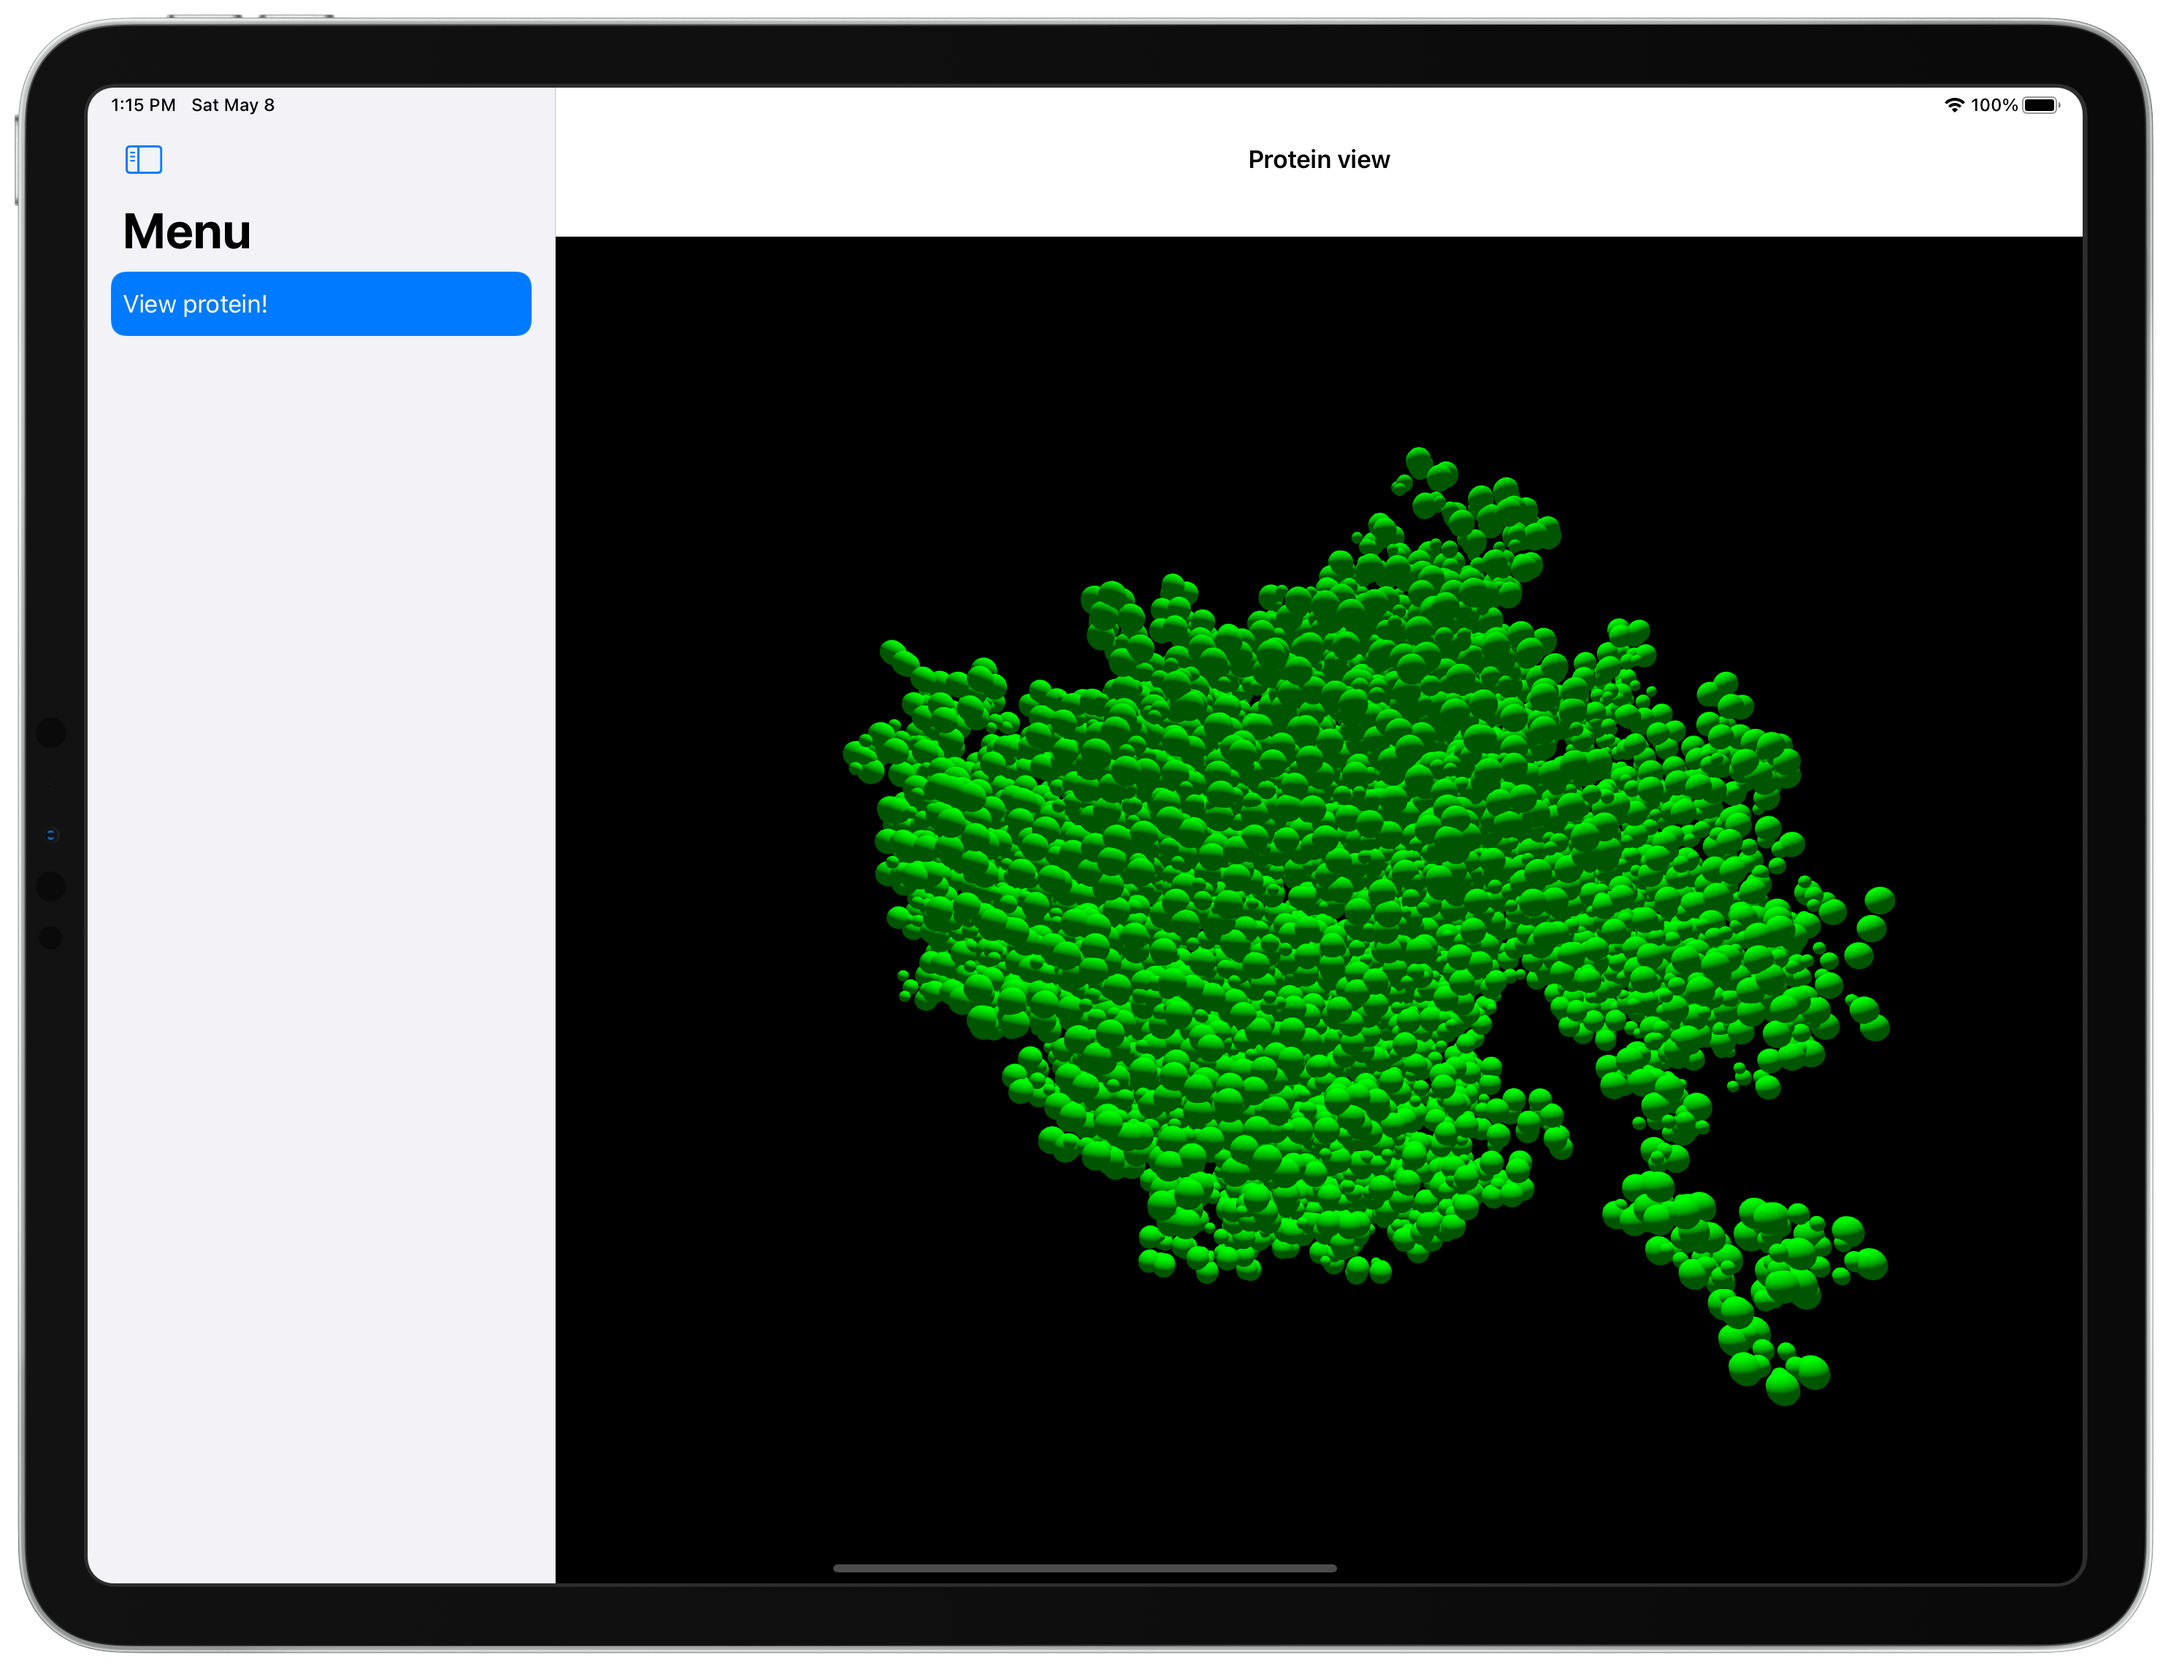
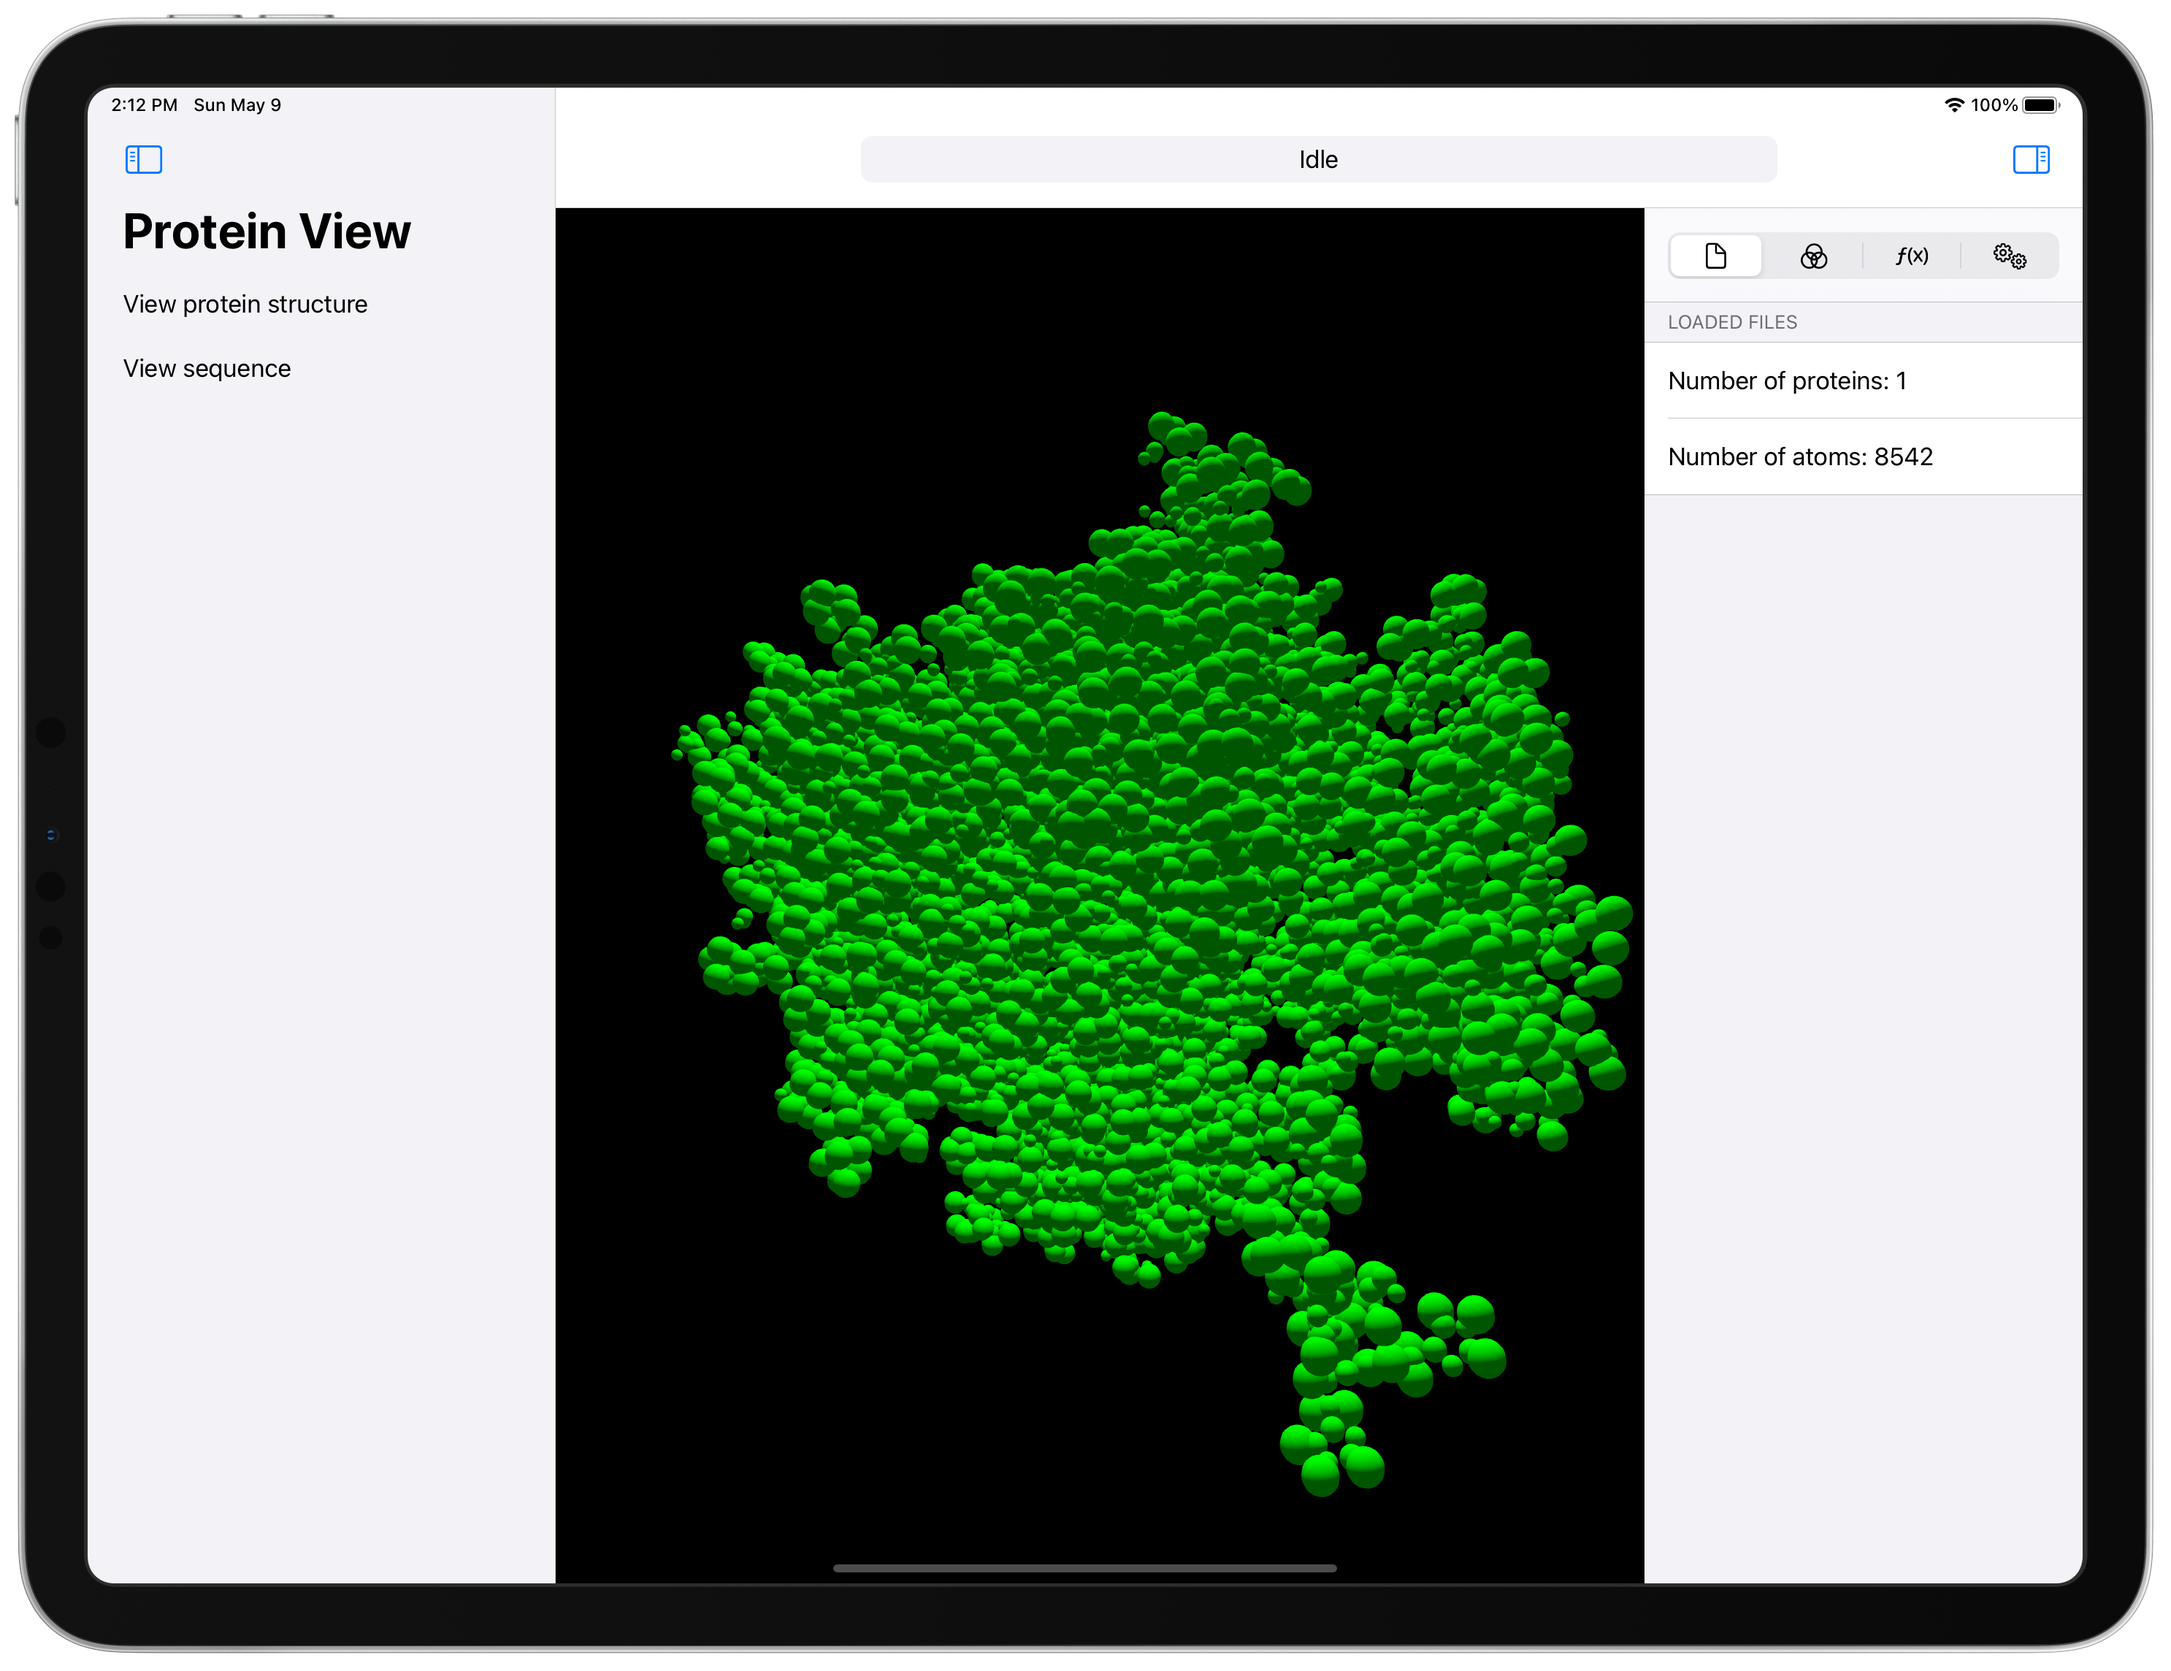
File tab added to sidebar

diff --git a/BioViewer/Views/ProteinViews/Segments/FileSegmentProtein.swift b/BioViewer/Views/ProteinViews/Segments/FileSegmentProtein.swift
@@ -1,0 +1,28 @@
+//
+//  FileSegmentProtein.swift
+//  BioViewer
+//
+//  Created by Raúl Montón Pinillos on 9/5/21.
+//
+
+import SwiftUI
+
+struct FileSegmentProtein: View {
+    var body: some View {
+            List {
+                // First section hast 64pt padding to account for the
+                // space under the segmented control.
+                Section(header: Text("Loaded files").padding(.top, 64)) {
+                    Text("Number of proteins: 1")
+                    Text("Number of atoms: 8542")
+                }
+            }
+            .listStyle(GroupedListStyle())
+    }
+}
+
+struct FileSegmentProtein_Previews: PreviewProvider {
+    static var previews: some View {
+        FileSegmentProtein()
+    }
+}

diff --git a/BioViewer/Views/ProteinViews/ProteinSidebar.swift b/BioViewer/Views/ProteinViews/ProteinSidebar.swift
@@ -28,6 +28,11 @@ struct ProteinSidebar: View {
 
     var body: some View {
         ZStack {
+            // Options views go here
+            switch(selectedSegment) {
+                case 0: FileSegmentProtein()
+                default: Spacer()
+            }
             // Top segemented control to switch between options
             VStack (spacing: 0) {
                 ZStack {
@@ -47,8 +52,6 @@ struct ProteinSidebar: View {
                     .foregroundColor(Color(UIColor.separator))
                 Spacer()
             }
-            // Options views go here
-            // TO-DO
         }
         .background(Color(UIColor.secondarySystemBackground))
     }
